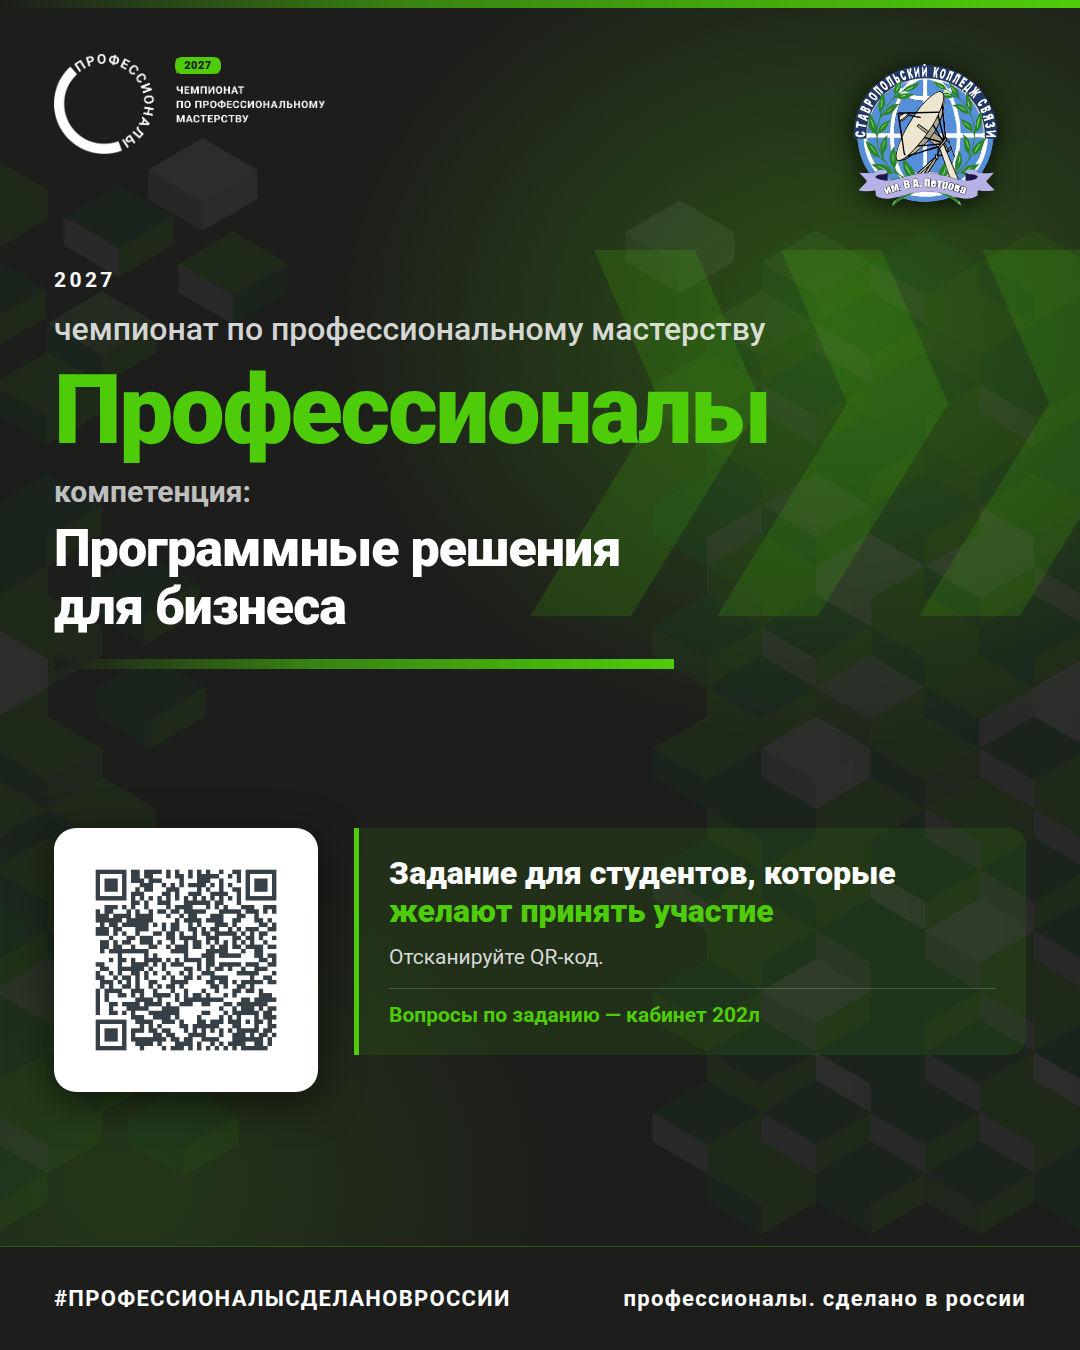
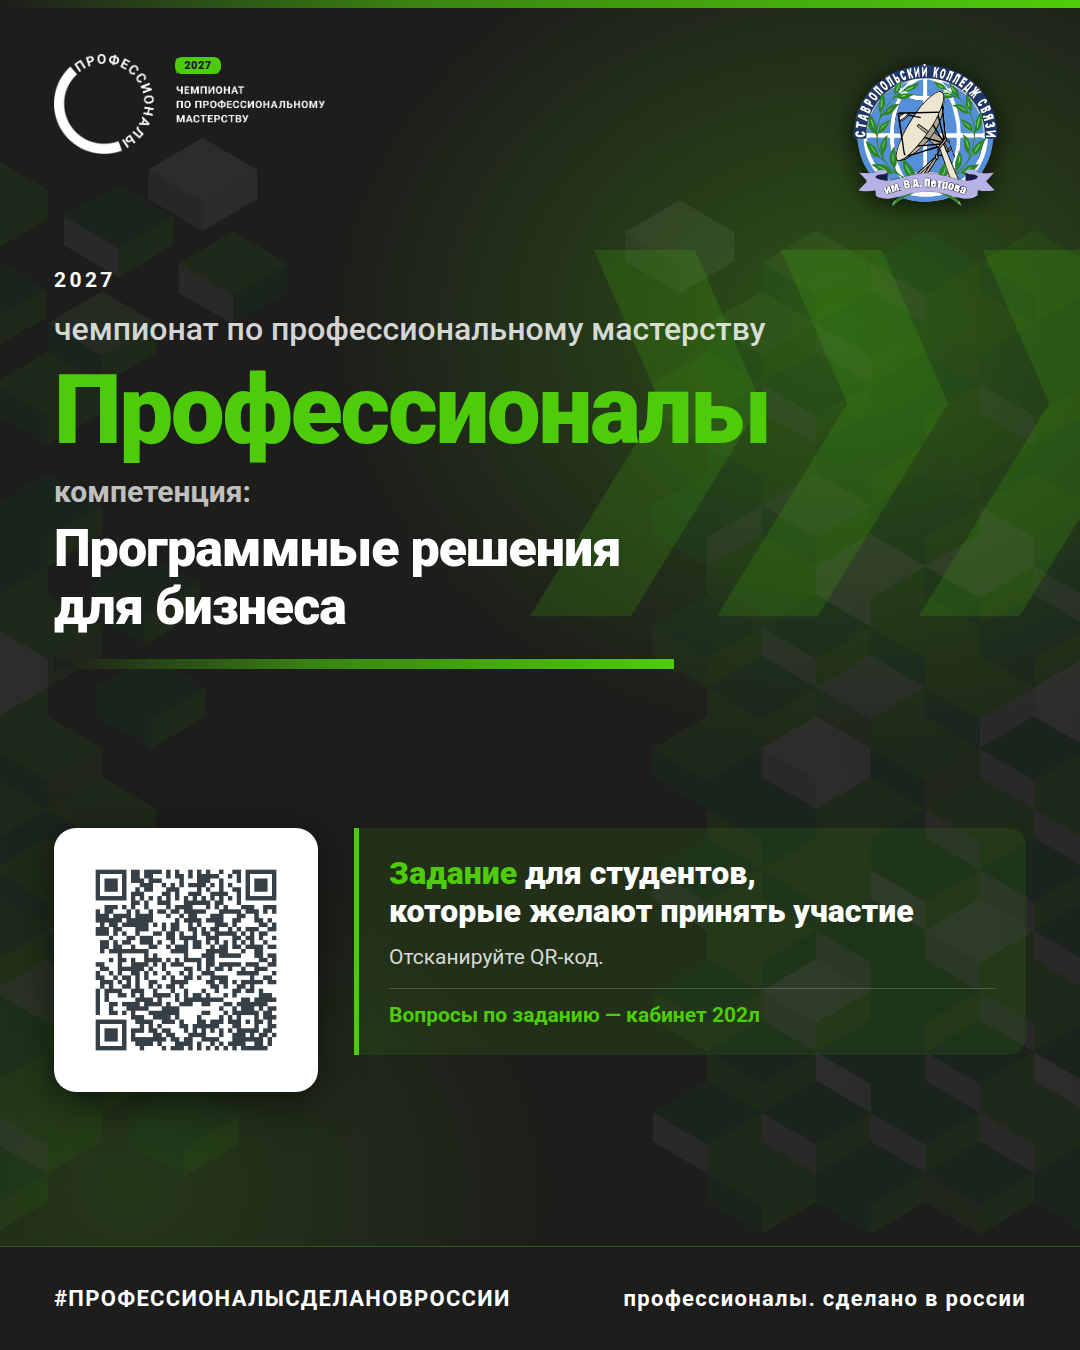
refactor(poster): зелёным выделяется только слово «Задание»

Changed region(s): [[0.3667, 0.6222, 0.8556, 0.6844]]

diff --git a/post/poster-variant-a.html b/post/poster-variant-a.html
@@ -216,7 +216,7 @@
   </div>
 
   <div class="textblock">
-    <h3>Задание для студентов, которые<br><em>желают принять участие</em></h3>
+    <h3><em>Задание</em> для студентов,<br>которые желают принять участие</h3>
     <p>Отсканируйте QR-код.</p>
     <div class="contact">Вопросы по заданию — кабинет 202л</div>
   </div>

diff --git a/post/poster.html b/post/poster.html
@@ -262,7 +262,7 @@
   </div>
 
   <div class="textblock">
-    <h3>Задание для студентов, которые<br><em>желают принять участие</em></h3>
+    <h3><em>Задание</em> для студентов,<br>которые желают принять участие</h3>
     <p>Отсканируйте QR-код.</p>
     <div class="contact">Вопросы по заданию — кабинет 202л</div>
   </div>
